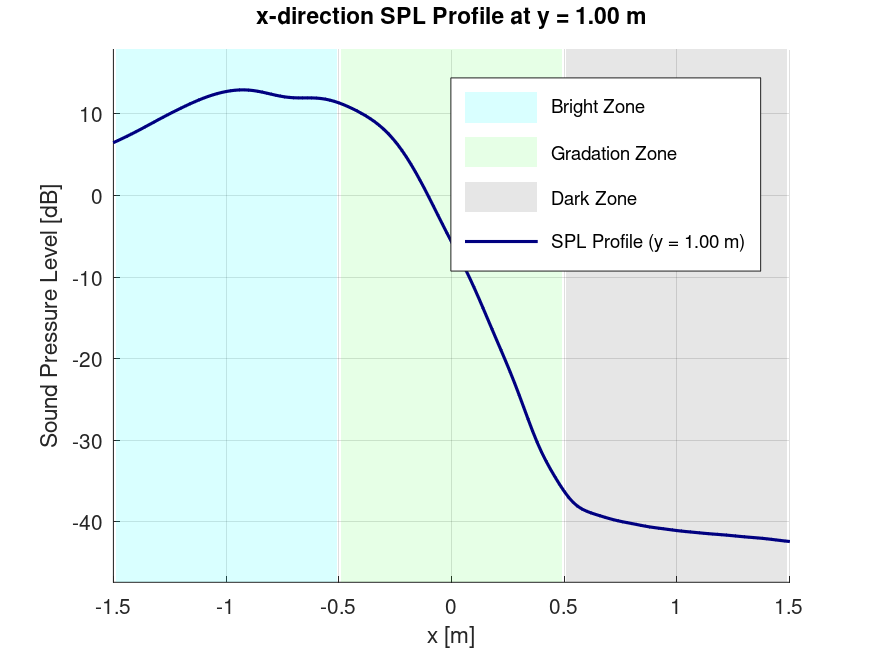
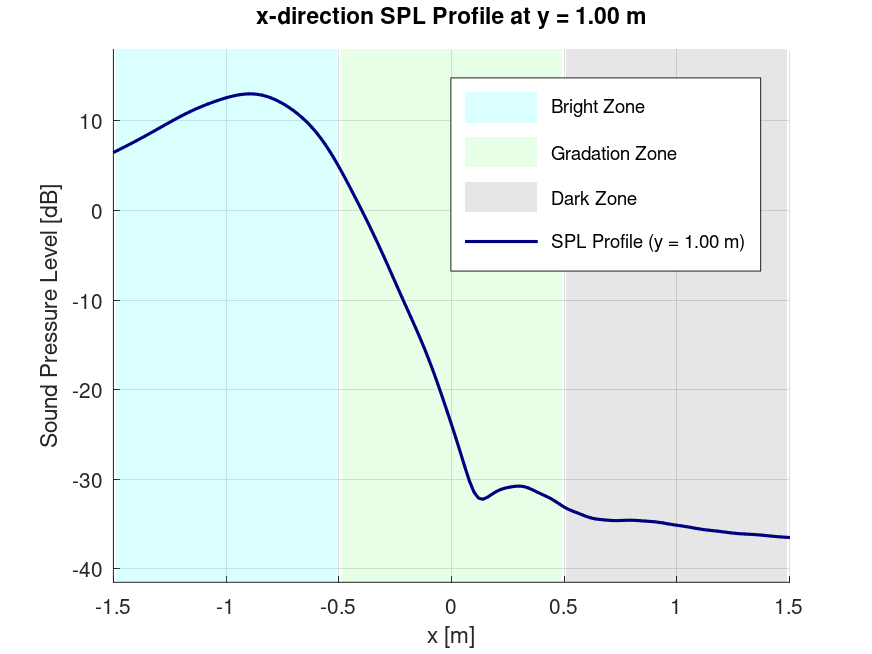
Gz前半に音圧を下げる

diff --git a/filter_pm.m b/filter_pm.m
@@ -36,30 +36,40 @@ function drv_ls = filter_pm(mic_geo, G, f, ang_wave, amp_src, Nsrc, c, num_bz, n
             w_vec(i) = 1.0;
         end
 
-        %--------------------------------------------------
+%--------------------------------------------------
         % 2. Gradation Zone (GZ) の目標音圧と重み
         %--------------------------------------------------
         gz_idx_start = num_bz + 1;
         gz_idx_end = num_bz + num_gz;
         
-        % GZのx座標の範囲を取得し、中間点を算出
         min_x_gz = min(mic_geo(gz_idx_start:gz_idx_end, 1));
         max_x_gz = max(mic_geo(gz_idx_start:gz_idx_end, 1));
         mid_x_gz = (min_x_gz + max_x_gz) / 2;
+
+        % 減衰の急峻さを制御するパラメータ (大きいほど急速に落ちる)
+        alpha = 5.0; 
 
         for i = gz_idx_start:gz_idx_end
             x_m = mic_geo(i,1);
             y_m = mic_geo(i,2);
 
             if x_m <= mid_x_gz
-                % GZ前半: 重み 1.0 -> 0.01 / 振幅 1.0 -> 0.0
+                % --- GZ前半 (-0.5m ～ 0m): 急速減衰ゾーン ---
+                % 0 ～ 1 に正規化した位置パラメータ t
                 t = (x_m - min_x_gz) / (mid_x_gz - min_x_gz);
-                w_vec(i) = 1.0 - t * 0.99;
-                amp_g = amp_src * (1.0 - t);
+                
+                % 1. 目標音圧の急速（指数）減衰: 1.0 -> 0.0067 (約 -43dB)
+                amp_g = amp_src * exp(-alpha * t);
                 p_des(i) = amp_g * exp(1i * (2*pi*f(kk)/c) * (x_m*cos(ang_wave) + y_m*sin(ang_wave)));
+                
+                % 2. 重みの急速増加 (対数スケールで 1.0 -> 500.0)
+                %    音を強制的に消去させるため、重みを強力にかける
+                log_w = log10(1.0) + t * (log10(500.0) - log10(1.0));
+                w_vec(i) = 10^(log_w);
+                
             else
-                % GZ後半: 無音、重み 0.01 固定
-                w_vec(i) = 0.1;
+                % --- GZ後半 (0m ～ 0.5m): 完全にDZ（消音）扱い ---
+                w_vec(i) = 100.0;
                 p_des(i) = 0;
             end
         end
@@ -70,7 +80,7 @@ function drv_ls = filter_pm(mic_geo, G, f, ang_wave, amp_src, Nsrc, c, num_bz, n
         dz_idx_start = num_bz + num_gz + 1;
         for i = dz_idx_start:n_mic
             p_des(i) = 0;
-            w_vec(i) = 500.0;
+            w_vec(i) = 100.0;
         end
 
         % 重み行列 W (対角行列)
